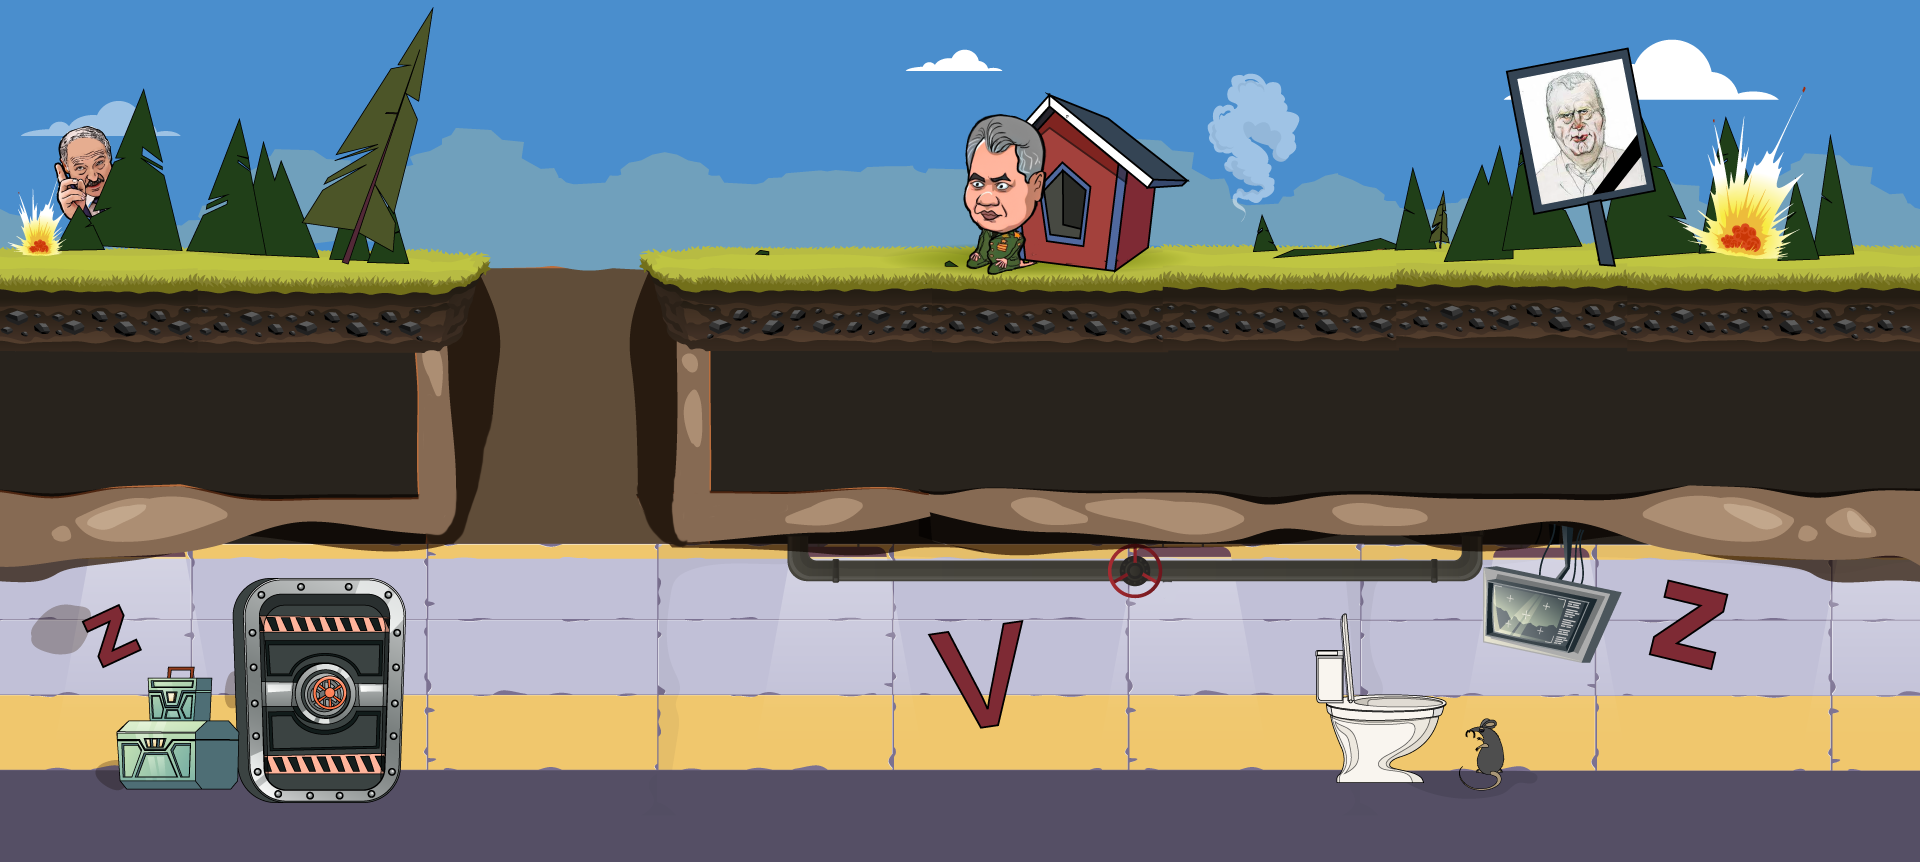
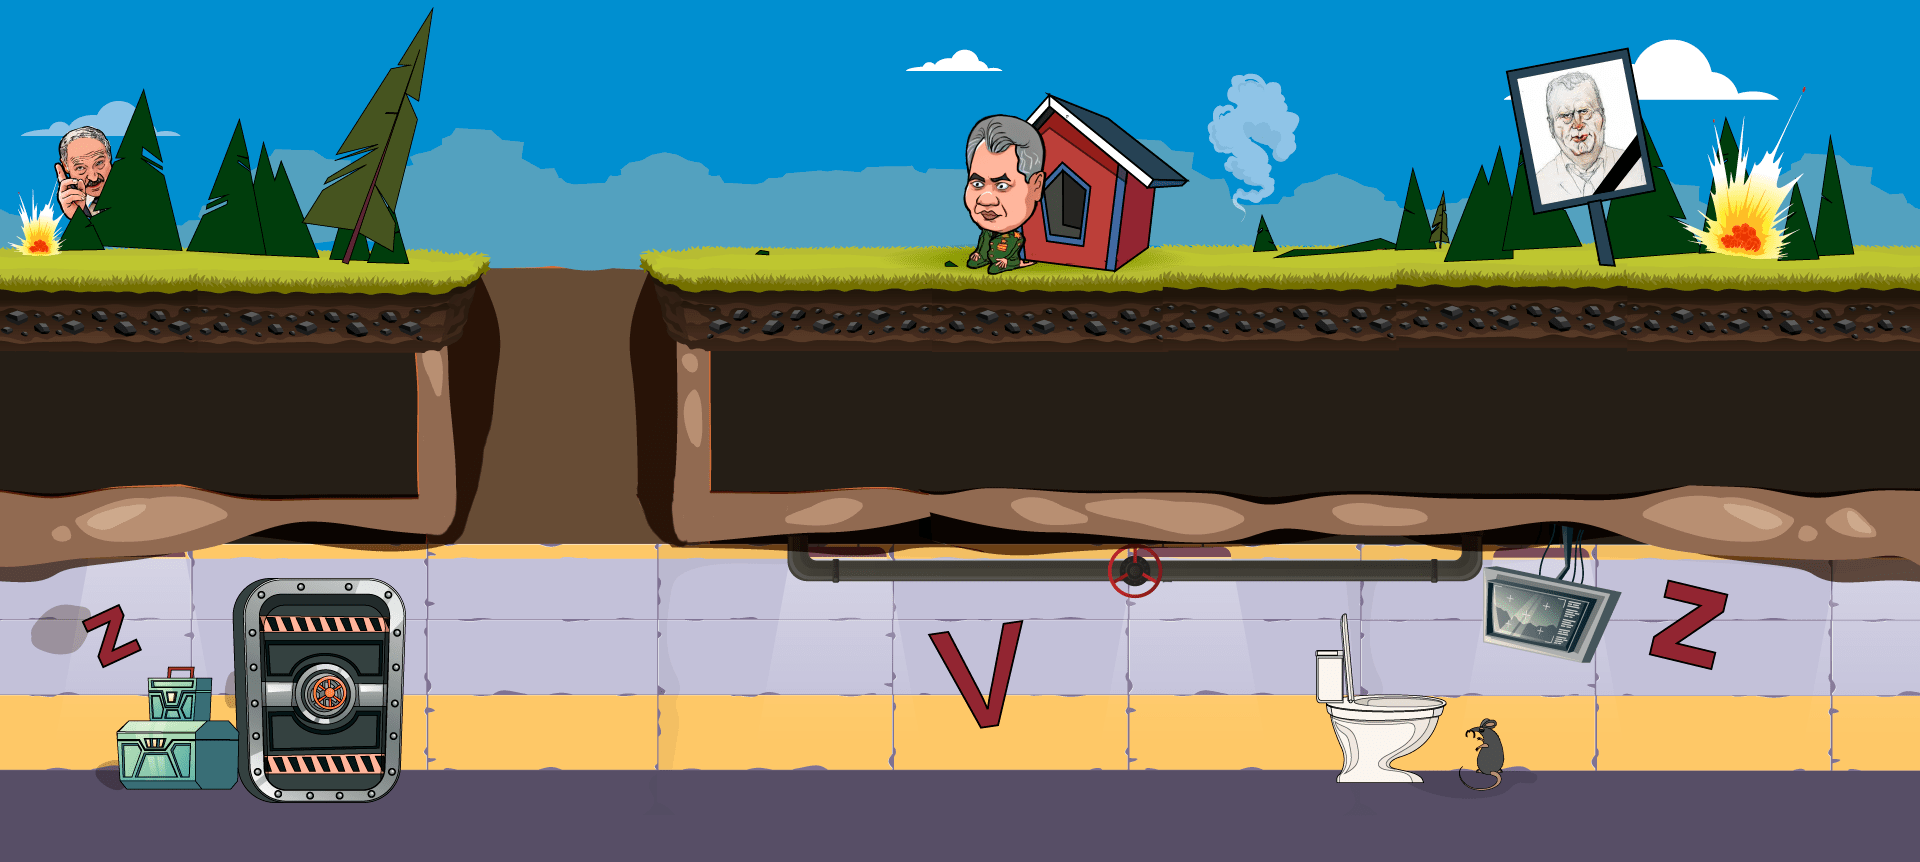
level 5 fix

Changed region(s): [[0.0, 0.0, 1.0, 0.3619], [0.0625, 0.8747, 0.125, 0.9049], [0.0625, 0.8144, 0.0938, 0.8445]]

diff --git a/public/index.html b/public/index.html
@@ -10,10 +10,10 @@
   <body>
     <div class="start-bg" id="background-start">
       <picture>
-        <source media="(min-width: 768px)" srcset="images/backgrounds/bg-main-100.jpg" />
+        <source media="(min-width: 768px)" srcset="images/backgrounds/bg-main-desktop.jpg" />
         <source media="(max-width: 767px) and (min-width: 320px) and (orientation: portrait)" srcset="images/backgrounds/bg-main-phone.jpg" />
-        <source media="(max-width: 767px) and (min-width: 320px) and (orientation: landscape)" srcset="images/backgrounds/bg-main-100.jpg" />
-        <img src="images/backgrounds/bg-main-100.jpg" class="bg-start-phone" />
+        <source media="(max-width: 767px) and (min-width: 320px) and (orientation: landscape)" srcset="images/backgrounds/bg-main-desktop.jpg" />
+        <img src="images/backgrounds/bg-main-desktop.jpg" class="bg-start-phone" />
       </picture>
       <div class="logo-and-btn-wrap">
         <img src="images/icons/logo.png" class="logo-start" />
@@ -131,6 +131,8 @@
     <!-- load all static files -->
     <div id="content" style="display: none">
       <img src="./images/icons/airforce-icon.png" />
+      <img src="./images/icons/duck-start.png" />
+      <img src="./images/icons/facebook.png" />
       <img src="./images/icons/infantry-icon.png" />
       <img src="./images/icons/level1.png" />
       <img src="./images/icons/level2.png" />
@@ -141,10 +143,16 @@
       <img src="./images/icons/logo.png" />
       <img src="./images/icons/logo-pop-up.png" />
       <img src="./images/icons/machinery-icon.png" />
+      <img src="./images/icons/putin-icon.png" />
       <img src="./images/icons/sound-on.png" />
       <img src="./images/icons/sound-off.png" />
       <img src="./images/icons/star-icon.png" />
+      <img src="./images/icons/step1.png" />
+      <img src="./images/icons/step2.png" />
+      <img src="./images/icons/step3.png" />
+      <img src="./images/icons/telegram.png" />
 
+      <img src="./images/backgrounds/about-bg.svg" />
       <img src="./images/backgrounds/bg-level6-d.png" />
       <img src="./images/backgrounds/bg-level6-m.png" />
       <img src="./images/backgrounds/bg-level-1.png" />
@@ -152,8 +160,7 @@
       <img src="./images/backgrounds/bg-level-3.png" />
       <img src="./images/backgrounds/bg-level-4.png" />
       <img src="./images/backgrounds/bg-level-5.png" />
-      <img src="./images/backgrounds/bg-level-6.png" />
-      <img src="./images/backgrounds/bg-main-100.jpg" />
+      <img src="images/backgrounds/bg-main-desktop.jpg" />
       <img src="./images/backgrounds/bg-main-phone.jpg" />
 
       <img src="./images/birds/duck-fly-1.gif" />
@@ -185,8 +192,8 @@
       <img src="./images/enemies/machinery-3.png" />
       <img src="./images/enemies/machinery-4.png" />
       <img src="./images/enemies/machinery-5.png" />
-      <img src="./images/enemies/putin.gif" />
-      <img src="./images/enemies/putin-300.gif" />
+      <img src="./images/enemies/putin-left.gif" />
+      <img src="./images/enemies/putin-right.gif" />
 
       <img src="./images/booms/boom-1.gif" />
       <img src="./images/booms/boom-2.gif" />

diff --git a/public/script.js b/public/script.js
@@ -93,7 +93,7 @@ window.onload = () => {
 
   let sound = 'on';
 
-  let LEVEL = 0;
+  let LEVEL = 5;
   let ENEMIES_ARRAY = [];
   const LEVELS = [0, 1, 2, 3, 4, 5];
   let PUTIN_LIVES = 10;
@@ -389,10 +389,14 @@ window.onload = () => {
   };
 
   const putinMoveEnemy = (enemy) => {
+    const clientWidth = Number(String(document.querySelector('body').clientWidth).replace('px', ''));
+
     const goLeft = () => {
+      enemy.classList.add('putinLeft');
+      enemy.classList.remove('putinRight');
       let moveLeft = setInterval(() => {
         enemy.style.left = enemy.offsetLeft - 10 + 'px';
-        if (enemy.offsetLeft < 200) {
+        if (enemy.offsetLeft <= -300) {
           clearInterval(moveLeft);
           goRight();
         }
@@ -400,16 +404,18 @@ window.onload = () => {
     };
 
     const goRight = () => {
+      enemy.classList.add('putinRight');
+      enemy.classList.remove('putinLeft');
       let moveRight = setInterval(() => {
         enemy.style.left = enemy.offsetLeft + 10 + 'px';
-        if (enemy.offsetLeft > 1500) {
+        if (enemy.offsetLeft > clientWidth + 300) {
           clearInterval(moveRight);
           goLeft();
         }
       }, 30);
     };
 
-    enemy.style.left = '1500px';
+    enemy.style.left = clientWidth + 300 + 'px';
     goLeft();
   };
 
@@ -442,7 +448,7 @@ window.onload = () => {
 
   const putinCreateEnemy = () => {
     let enemy = document.createElement('div');
-    enemy.className = `enemy ${PUTIN}`;
+    enemy.className = `enemy ${PUTIN} putinLeft`;
     enemy.style.top = document.querySelector('#app').clientHeight - 200 + 'px';
 
     gameBlock.appendChild(enemy);
@@ -473,6 +479,8 @@ window.onload = () => {
       if (enemyClass === PUTIN) {
         createBoom(bullet.offsetTop, bullet.offsetLeft, MACHINERY);
         bullet.remove();
+        enemy.classList.add('jumpUp');
+        setTimeout(() => enemy.classList.remove('jumpUp'), 500);
         PUTIN_LIVES -= 1;
         scorePutinCurrent.innerHTML = String(PUTIN_LIVES);
         if (PUTIN_LIVES === 0) {

diff --git a/public/style.css b/public/style.css
@@ -62,7 +62,7 @@ button {
 
 @media (min-width: 1280px) {
   #background {
-    width: 2000px;
+    width: 200vw;
     background-size: 1000px;
   }
   .bg-start {
@@ -365,11 +365,11 @@ button {
   #background.bg-level-6 {
     background-image: url(images/backgrounds/bg-level6-m.png);
     background-position: bottom;
-    position: absolute;
+    /*position: absolute;*/
     background-color: #008fd0;
     background-repeat: repeat-x;
     bottom: 0;
-    width: 100vw;
+    width: auto;
     background-size: contain;
     z-index: auto;
   }
@@ -438,6 +438,16 @@ button {
 }
 
 @media (min-width: 320px) and (max-width: 767px) and (orientation: landscape) {
+  #background.bg-level-6 {
+    background-image: url(images/backgrounds/bg-level6-d.png);
+    background-position: bottom;
+    background-color: #008fd0;
+    background-repeat: repeat-x;
+    bottom: 0;
+    width: auto;
+    background-size: contain;
+    z-index: auto;
+  }
   #bird.duck-fly-1,
   #bird.duck-fly-3 {
     width: 100px !important;
@@ -890,15 +900,33 @@ button {
 }
 .enemy.putin {
   position: absolute;
-  right: 20px;
+  right: -300px;
   z-index: 999999;
   height: 200px;
   width: 200px;
   bottom: 0 !important;
   background-size: contain !important;
-  background: url(images/enemies/putin-300.gif) no-repeat;
 }
-
+.enemy.putin.putinLeft {
+  background: url(images/enemies/putin-left.gif) no-repeat;
+}
+.enemy.putin.putinRight {
+  background: url(images/enemies/putin-right.gif) no-repeat;
+}
+.jumpUp {
+  animation: putinUp 0.2s ease-in-out infinite;
+}
+@keyframes putinUp {
+  0% {
+    transform: translate3d(0, 0, 0);
+  }
+  50% {
+    transform: translate3d(0, -30px, 0);
+  }
+  100% {
+    transform: translate3d(0, 0, 0);
+  }
+}
 /*--------------------------------popUps---------------- */
 
 .logoPopUp {
